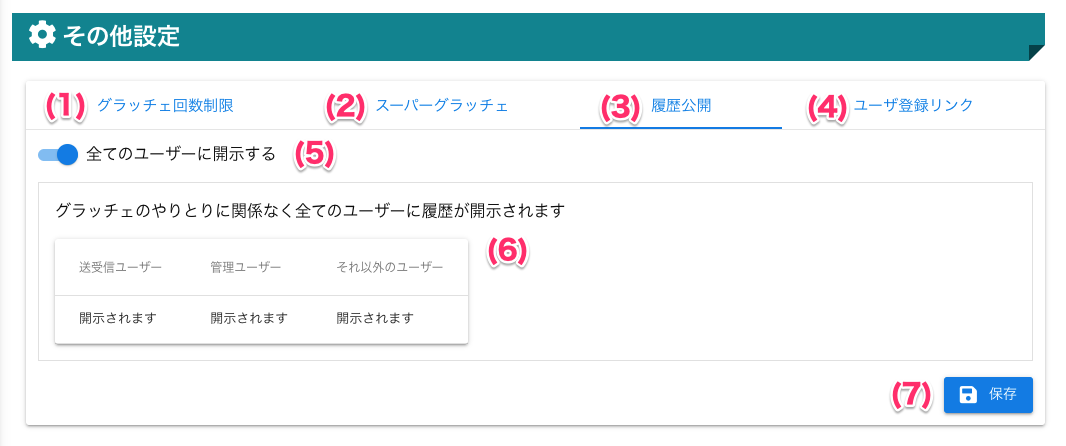
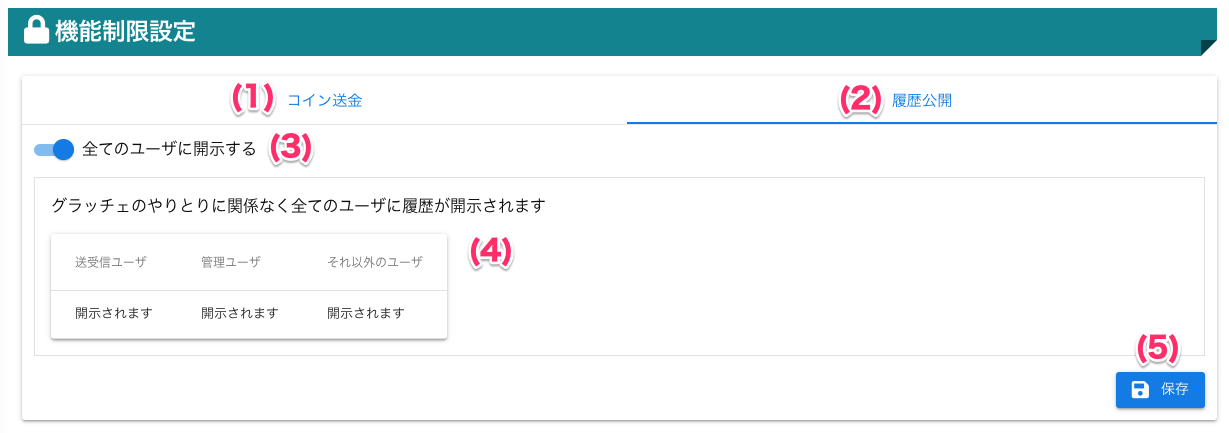
8月末リリース内容の反映

diff --git a/docs/管理者機能/ユーザ/user04.md b/docs/管理者機能/ユーザ/user04.md
@@ -8,23 +8,30 @@
 ### 画面項目
 |   #   | 項目名                | 必須  | 説明                                                                                                                                         |
 | :---: | :-------------------- | :---: | :------------------------------------------------------------------------------------------------------------------------------------------- |
-|   1   | CSVファイル入力例     |   -   | CSVファイルによるデータインポートの説明です。クリックすると、説明を表示します。<br>サンプルとなるCSVファイルをダウンロードすることができます |
-|   2   | CSVファイル選択ボタン |   -   | ボタンを押すとインポートするCSVファイルを選択する画面が開きます                                                                              |
-|   3   | アップロードボタン    |   -   | ボタンを押すと選択したCSVファイルのインポートを行います。                                                                                    |
-|   4   | インポート結果表示欄  |   -   | CSVファイルインポート処理実行後に結果を表示します。                                                                                          |
+|   1   | ユーザ一覧CSVダウンロードボタン     |   -   | クリックすると、現在登録されているユーザをCSV形式でダウンロードすることができます。<br>ダウンロードしたファイルを直接変更することでそのままファイルを使用いただけます。 |
+|   2   | サンプルCSVダウンロードボタン |   -   | ボタンを押すとCSVファイルのサンプルをダウンロードすることができます。
+|   3   | CSVファイル入力例     |   -   | CSVファイルによるデータインポートの説明です。クリックすると、説明を表示します。|                                                                            |
+|   4   | CSVファイル選択ボタン |   -   | ボタンを押すとインポートするCSVファイルを選択する画面が開きます。
+|   5   | アップロードボタン    |   -   | ボタンを押すと選択したCSVファイルのインポートを行います。                                                                                    |
+|   6   | 閉じるボタン  |   -   | クリックするとユーザインポート画面を閉じます。                                                                                          |
 
 ## CSVファイルインポート結果表示画面
 <a href="../../../images/user/4-2.png" data-lightbox="スクリーンショット" data-title="スクリーンショット">
     <img src="../../../images/user/4-2.png" style="border: solid 1px #ccc; width: 500px;" />
 </a>
 
+- 結果ダウンロードCSVファイルの中身
+<a href="../../../images/user/4-5.png" data-lightbox="スクリーンショット" data-title="スクリーンショット">
+    <img src="../../../images/user/4-5.png" style="border: solid 1px #ccc; width: 500px;" />
+</a>
+
 
 ### 画面項目
 |   #   | 項目名                   | 必須  | 説明                                                                                                                                                                   |
 | :---: | :----------------------- | :---: | :--------------------------------------------------------------------------------------------------------------------------------------------------------------------- |
-|   1   | 件数                     |   -   | CSVファイルによるデータインポートの説明です。クリックすると、説明を表示します。<br>サンプルとなるCSVファイルをダウンロードすることができます                           |
-|   2   | インポートしたユーザ情報 |   -   | ボタンを押すとインポートするCSVファイルを選択する画面が開きます                                                                                                        |
-|   3   | 結果                     |   -   | ボタンを押すと選択したCSVファイルのインポートを行います。<br>取り込めなかったデータは、<span style="font-weight:bold;font-size:16px;color:red;">×</span>を表示します。 |
+|   1   | 結果をダウンロードするボタン                     |   -   | CSVインポートの結果を記載したCSVファイルをダウンロードすることができます。<br>ダウンロード後、成功ダイアログ画面が自動的に閉じます                           |
+|   2   | 閉じるボタン |   -   | 成功ダイアログ画面を閉じることができます。                                                                                                        |
+|   3   | インポート結果                     |   -   | `アップロード成功:追加`の場合は新規登録、 `アップロード成功:更新`になっている場合はユーザ情報を更新しています。 |
 
 
 
@@ -59,21 +66,24 @@ VSC管理者,vsckanri@graziecoin.jp,0000000000,1111111111,1
 ### インポートエラー時の表示
 !!! warning
     以下の登録結果が表示された場合、CSVデータの見直しが必要です<br>
-    [よくあるインポートエラーの例](#_6)を参考に修正をお願いいたします
+    [よくあるインポートエラーの例](#_6)を参考に修正をお願いいたします<br>
+    **また、ダウンロードした結果ファイルをそのまま編集し、アップロードいただけます。**
 
 <a href="../../../images/user/4-2.png" data-lightbox="スクリーンショット" data-title="スクリーンショット">
     <img src="../../../images/user/4-3.png" style="border: solid 1px #ccc; width: 500px;" />
 </a>
 
-### メール通知に失敗した場合
-
-!!! warning
-    以下の登録結果が表示された場合、対象ユーザのメールアドレスへログイン用のパスワードが**通知できていません**<br>
-    お手数ですが、対象のユーザへ[パスワード再設定方法](../../howto/howto04.md)をご案内ください
-
+- エラー結果ダウンロードCSVファイルの中身
 <a href="../../../images/user/4-4.png" data-lightbox="スクリーンショット" data-title="スクリーンショット">
     <img src="../../../images/user/4-4.png" style="border: solid 1px #ccc; width: 500px;" />
 </a>
+
+### 追加したユーザに対して、アカウント作成メール通知がこない場合
+
+!!! warning
+    対象ユーザのメールアドレスが存在しない場合等でログイン用のパスワードが**通知できないことがございます**<br>
+    お手数ですが、対象のユーザへ[パスワード再設定方法](../../howto/howto04.md)をご案内ください
+
 
 ### よくあるインポートエラーの例
 
@@ -90,35 +100,16 @@ VSC管理者,vsckanri@graziecoin.jp,0000000000,1111111111,1
     - 上記に気をつけてCSVファイルを作成したがエラーになってしまう
         - お手数ですが作成したCSVファイルを添付して、バリューソフトウエア問合せ窓口（`app_dev@valunet.co.jp`）へお問い合わせください
 
-#### 事業所ID、部署IDが間違っている
-
-事業所コードの桁数が10桁ではない、または存在しない事業所コードを指定している場合などはエラーが発生します。
-
-<a href="../../../images/user/4-error-1.png" data-lightbox="スクリーンショット" data-title="スクリーンショット">
-    <img src="../../../images/user/4-error-1.png" style="border: solid 1px #ccc; width: 300px;" />
-</a>
-<a href="../../../images/user/4-error-1.png" data-lightbox="スクリーンショット" data-title="スクリーンショット">
-    <img src="../../../images/user/4-error-1.png" style="border: solid 1px #ccc; width: 300px;" />
+<a href="../../../images/user/4-6.png" data-lightbox="スクリーンショット" data-title="スクリーンショット">
+    <img src="../../../images/user/4-6.png" style="border: solid 1px #ccc; width: 600px;" />
 </a>
 
 
-
-#### 権限の数値が0または1ではない
-
-ユーザ権限の数値が0(一般)、1(管理者)以外の場合は、エラーが発生します。
-
-<a href="../../../images/user/4-error-3.png" data-lightbox="スクリーンショット" data-title="スクリーンショット">
-    <img src="../../../images/user/4-error-3.png" style="border: solid 1px #ccc; width: 300px;" />
-</a>
-
-
-#### エラーが解消しない場合
-- すでに登録されているメールアドレスを使用している場合があります
-    - [ユーザ一覧](user01.md)で登録されていないかご確認ください
-- ユーザの作成数がサービス利用申込時に設定されたご利用者数を超えている場合があります
-    - バリューソフトウエアまでお問合せください
-
-
+| # | エラー原因 |
+| -------- | -------------- |
+| 1  | 事業所コードの桁数が10桁ではない、または存在しない事業所コードを指定している場合などはエラーが発生します。 |
+| 2  | 部署コードの桁数が10桁ではない、または存在しない部署コードを指定している場合などはエラーが発生します。 |
+| 3  | ユーザ権限の数値が0(一般)、1(管理者)以外の場合は、エラーが発生します。 |
 
 #### よくあるお問合せ
 !!! warning
@@ -129,4 +120,4 @@ VSC管理者,vsckanri@graziecoin.jp,0000000000,1111111111,1
 ## 使い方
 ### CSVインポートでユーザを登録する
 
-<iframe src="https://scribehow.com/embed/CSV__wuuihIlBRUGkNUT21doutg" width="640" height="640" allowfullscreen frameborder="0"></iframe>
+<iframe src="https://scribehow.com/embed/CSV__qWBjRs_mSheVowOz3WLEXg" width="640" height="640" allowfullscreen frameborder="0"></iframe>

diff --git a/docs/管理者機能/その他設定/other03.md b/docs/管理者機能/その他設定/other03.md
@@ -11,23 +11,18 @@
 ## 画面項目
 |   #   | 項目名                             | 必須  | 説明                                                                                                                               |
 | :---: | :--------------------------------- | :---: | :--------------------------------------------------------------------------------------------------------------------------------- |
-|   1   | グラッチェ回数制限タブ             |   -   | グラッチェ回数制限を設定するタブです                                                                                               |
-|   2   | スーパーグラッチェタブ             |   -   | スーパーグラッチェを設定するタブです                                                                                               |
-|   3   | 履歴公開タブ   |   -   | 履歴公開を設定するタブです                       |
-|   4   | ユーザ登録リンクタブ               |   -   | ユーザ登録リンクを設定するタブです                                                                                                 |
-|   5   | ユーザ登録フォーム有効スイッチ     |   -   | ユーザ登録フォームからのユーザ登録の有効・無効を切り替えるスイッチです                                                             |
-|   6   | ユーザ登録URL                      |   -   | ユーザ登録フォームのURLを表示します                                                                                                |
-|   7   | メールアドレスドメイン制限スイッチ |   -   | ユーザ登録フォームから登録するユーザのメールアドレスを、マスター管理者と同じドメインとする制限の有効・無効を切り替えるスイッチです |
-|   8   | URLをコピーボタン                  |   -   | ボタンを押すとユーザ登録URLをクリップボードにコピーします                                                                          |
-|   9   | URLを再発行するボタン              |   -   | ボタンを押すとユーザ登録URLをランダムに生成しなおします                                                                            |
+|   1   | ユーザ登録フォーム有効スイッチ     |   -   | ユーザ登録フォームからのユーザ登録の有効・無効を切り替えるスイッチです                                                             |
+|   2   | ユーザ登録URL                      |   -   | ユーザ登録フォームのURLを表示します                                                                                                |
+|   3   | メールアドレスドメイン制限スイッチ |   -   | ユーザ登録フォームから登録するユーザのメールアドレスを、マスター管理者と同じドメインとする制限の有効・無効を切り替えるスイッチです |
+|   4   | URLをコピーボタン                  |   -   | ボタンを押すとユーザ登録URLをクリップボードにコピーします                                                                          |
+|   5   | URLを再発行するボタン              |   -   | ボタンを押すとユーザ登録URLをランダムに生成しなおします                                                                            |
 
 ## 使い方
 ### ユーザ登録フォームを有効にする
-<iframe src="https://scribehow.com/embed/__Aspc7nCESL6mjfuKrfBEcg" width="640" height="640" allowfullscreen frameborder="0"></iframe>
+<iframe src="https://scribehow.com/embed/__EgXabTbYQrCdlAdEIs9Qag" width="640" height="640" allowfullscreen frameborder="0"></iframe>
 
 ### ユーザ登録フォームを無効にする
-
-<iframe src="https://scribehow.com/embed/__q4MKbL0HTLO-2mkm8P0Aeg" width="640" height="640" allowfullscreen frameborder="0"></iframe>
+<iframe src="https://scribehow.com/embed/__5DAzBHyWQmKamDkK0hncFQ" width="640" height="640" allowfullscreen frameborder="0"></iframe>
 
 !!! info
     ユーザ登録フォームが無効な場合、ユーザを登録しようとすると以下のエラーが表示されます。

diff --git a/docs/管理者機能/productmaintenance.md b/docs/管理者機能/productmaintenance.md
@@ -18,7 +18,7 @@
 |   #   | 項目名         | 必須  | 説明                                                                            |
 | :---: | :------------- | :---: | :------------------------------------------------------------------------------ |
 |   1   | 物品追加ボタン |   -   | 現在表示中の事業所の名称です。<br/>事業所を無効にしている場合は表示されません。 |
-|   2   | 商品情報       |   -   | 商品の情報（名称・商品画像・価格）を表示します                                  |
+|   2   | 商品情報       |   -   | 商品の情報（名称・商品画像・価格・在庫数・申請数）を表示します。在庫数が0の場合は赤色で表示されます。                                  |
 |   3   | 商品削除ボタン |   -   | 商品を削除します。                                                              |
 |   4   | 商品編集ボタン |   -   | 商品情報を変更する画面を開きます。                                              |
 
@@ -28,9 +28,10 @@
 |   5   | 商品画像選択ボタン |   -   | 商品がわかる画像を指定します。                                  |
 |   6   | 商品名             |   ○   | 商品名を入力します。                                            |
 |   7   | 金額               |   ○   | 商品のコイン価格を入力します。                                  |
-|   8   | 表示優先度         |   ○   | 一般ユーザが商品交換する際に、表示する優先度を3段階で決めます。 |
-|   9   | 閉じるボタン       |   -   | 登録を中止して、画面を閉じます。                                |
-|  10   | 保存ボタン         |   -   | 商品情報を登録します。                                          |
+|   8   | 在庫数         |   ○   | 有効にすると在庫数を設定することができます。 |
+|   9   | 表示優先度         |   ○   | 一般ユーザが商品交換する際に、表示する優先度を3段階で決めます。 |
+|   10   | 閉じるボタン       |   -   | 登録を中止して、画面を閉じます。                                |
+|  11   | 保存ボタン         |   -   | 商品情報を登録します。                                          |
 
 
 
@@ -38,19 +39,19 @@
 
 ### 商品登録
 
-<iframe src="https://scribehow.com/embed/__xVHqTH6iTsSim-gSHY68LA" width="640" height="640" allowfullscreen frameborder="0"></iframe>
+<iframe src="https://scribehow.com/embed/__3_Lge7kMSaeXHWo9__OhZQ" width="640" height="640" allowfullscreen frameborder="0"></iframe>
 
 
 ### 商品編集
 
-<iframe src="https://scribehow.com/embed/__RgngFh7yQeGRJZJKTTO_vg" width="640" height="640" allowfullscreen frameborder="0"></iframe>
+<iframe src="https://scribehow.com/embed/__zWjPXENsRrurlmLcn4jvfQ" width="640" height="640" allowfullscreen frameborder="0"></iframe>
 
 !!! info
     価格の変更や商品在庫がなくなった場合、**商品を無効化する**ことでユーザに商品が表示されなくなります。
 
 
 ### 商品削除
-<iframe src="https://scribehow.com/embed/Workflow__alsQmC-JQX2TAzbjy75fQg" width="640" height="640" allowfullscreen frameborder="0"></iframe>
+<iframe src="https://scribehow.com/embed/__JwDbAVyxQHiiiHFRozGaUw" width="640" height="640" allowfullscreen frameborder="0"></iframe>
 
 !!! warning
     商品を削除すると**元に戻すことができません**。<br>

diff --git a/docs/管理者機能/その他設定/other04.md b/docs/管理者機能/その他設定/other04.md
@@ -19,18 +19,15 @@
 ## 画面項目
 |   #   | 項目名                             | 必須  | 説明                                                                                                                               |
 | :---: | :--------------------------------- | :---: | :--------------------------------------------------------------------------------------------------------------------------------- |
-|   1   | グラッチェ回数制限タブ             |   -   | グラッチェ回数制限を設定するタブです                                                                                               |
-|   2   | スーパーグラッチェタブ             |   -   | スーパーグラッチェを設定するタブです|
-|   3   | 履歴公開タブ   |   -   | 履歴公開を設定するタブです                       |
-|   4   | ユーザ登録リンクタブ               |   -   | ユーザ登録リンクを設定するタブです                                                                                                 |
-|   5   | 履歴公開有効スイッチ     |   -   | ユーザが見ることができる履歴の公開範囲の有効・無効を切り替えるスイッチです                                                             |
-|   6   | 説明表                      |   -   | 現在選択している、履歴公開設定の説明です。表を見ることで公開範囲を確認することができます|
-|   7   | 保存ボタン |   -   | ボタンを押すと設定を保存します |
+|   1   | コイン送金制限タブ             |   -   | グラッチェ回数制限を設定するタブです                                                                                               |
+|   2   | 履歴公開タブ   |   -   | 履歴公開を設定するタブです                       |
+|   3   | 履歴公開有効スイッチ     |   -   | ユーザが見ることができる履歴の公開範囲の有効・無効を切り替えるスイッチです                                                             |
+|   4   | 説明表                      |   -   | 現在選択している、履歴公開設定の説明です。表を見ることで公開範囲を確認することができます|
+|   5   | 保存ボタン |   -   | ボタンを押すと設定を保存します |
 
 ## 使い方
 ### 履歴公開範囲を全てのユーザーに開示する
-<iframe src="https://scribehow.com/embed/__nemzL8QET8OCXKe5ful1uA" width="640" height="640" allowfullscreen frameborder="0"></iframe>
+<iframe src="https://scribehow.com/embed/__lYNGDL8RTWuRcAK62UPViQ" width="640" height="640" allowfullscreen frameborder="0"></iframe>
 
 ### 履歴公開範囲を送受信ユーザーのみに開示する
-
-<iframe src="https://scribehow.com/embed/__tGUoZggLSP6WPExvVmvS7A" width="640" height="640" allowfullscreen frameborder="0"></iframe>
+<iframe src="https://scribehow.com/embed/__h9JcjBGtQhW5dehP3QrdLQ" width="640" height="640" allowfullscreen frameborder="0"></iframe>

diff --git a/docs/管理者機能/その他設定/other02.md b/docs/管理者機能/その他設定/other02.md
@@ -61,13 +61,11 @@
 | :---: | :------------------------------------- | :---: | :----------------------------------------------------------------------------- |
 |   1   | グラッチェ回数制限タブ                 |   -   | グラッチェ回数制限を設定するタブです                                           |
 |   2   | スーパーグラッチェタブ                 |   -   | スーパーグラッチェを設定するタブです                                           |
-|   3   | 履歴公開タブ   |   -   | 履歴公開を設定するタブです                       |
-|   4   | ユーザ登録リンクタブ                   |   -   | ユーザ登録リンクを設定するタブです                                             |
-|   5   | スーパーグラッチェ有効スイッチ         |   -   | スーパーグラッチェ設定の有効・無効を切り替えるスイッチです                     |
-|   6   | スーパーグラッチェコイン数             |   -   | スーパーグラッチェで付与するコイン数を設定します                               |
-|   7   | スーパーグラッチェ予算上限有効スイッチ |   -   | スーパーグラッチェによるコイン配布上限設定の有効・無効を切り替えるスイッチです |
-|   8   | 1ヶ月のスーパーグラッチェ予算          |   -   | スーパーグラッチェで配布するコインの1ヶ月の上限を設定します                    |
-|   9   | 保存ボタン                             |   -   | ボタンを押すと設定を保存します                                                 |
+|   3   | スーパーグラッチェ有効スイッチ         |   -   | スーパーグラッチェ設定の有効・無効を切り替えるスイッチです                     |
+|   4   | スーパーグラッチェコイン数             |   -   | スーパーグラッチェで付与するコイン数を設定します                               |
+|   5   | スーパーグラッチェ予算上限有効スイッチ |   -   | スーパーグラッチェによるコイン配布上限設定の有効・無効を切り替えるスイッチです |
+|   6   | 1ヶ月のスーパーグラッチェ予算          |   -   | スーパーグラッチェで配布するコインの1ヶ月の上限を設定します                    |
+|   7   | 保存ボタン                             |   -   | ボタンを押すと設定を保存します                                                 |
 
 ## 使い方
 ### スーパーグラッチェを設定する

diff --git a/docs/一般機能/GrazieCoin/coin04.md b/docs/一般機能/GrazieCoin/coin04.md
@@ -1,0 +1,30 @@
+# 　:new:商品交換状況画面
+
+## 画面
+
+<a href="../../../images/coin/4-1.png" data-lightbox="スクリーンショット" data-title="スクリーンショット">
+    <img src="../../../images/coin/4-1.png" style="border: solid 1px #ccc; width: 800px;" />
+</a>
+
+## 項目
+
+|   #   | 項目名         | 必須  | 説明                                                                                                                                                                                                               |
+| :---: | :------------- | :---: | :----------------------------------------------------------------------------------------------------------------------------------------------------------------------------------------------------------------- |
+|   1   | 商品交換状況画面   |   -   | 商品交換画面で商品交換状況ボタンを押すと表示します                                                                                                                                                               |
+|   2   | 申請日時     |   -   | 商品を交換した日時です                                                                                                                                                                             |
+|   3   | 交換商品     |   -   | 交換した商品の名前です                                                                                                                           |
+|   4   | 取引金額           |   -   | 交換時に消費した金額です                                                                                                                                                                         |
+|   5   | ステータス           |   -   | 「未交換」のステータス                           |
+|   6   | 交換取消ボタン           |   -   | 商品を交換を取り消すことができます<br>※**2024年9月以降に交換申請した商品のみが対象です** |
+|   7   | 閉じるボタン   |   -   | ボタンを押すと画面を閉じます                                                                                                                                                                                       |
+
+## 使い方
+
+### 交換申請を取り消す
+
+<iframe src="https://scribehow.com/embed/__3L_BgmRwQoq2QMzLZEwWQQ" width="640" height="640" allowfullscreen frameborder="0"></iframe>
+
+
+
+
+

diff --git a/docs/管理者機能/その他設定/other05.md b/docs/管理者機能/その他設定/other05.md
@@ -1,0 +1,37 @@
+# コイン送金制限設定
+
+!!! info
+    - 一般画面のコイン送金機能の制限を設定をすることができます
+    - 「**全てのユーザが送金可能**」
+        - 全てのユーザがコイン送金できます
+    - 「**管理者のみ送金可能**」
+        - 管理者のみコイン送金できます
+    - 「**全てのユーザが送金不可**」
+        - 全てのユーザがコイン送金できません
+
+## 画面
+<a href="../../../images/other/5.png" data-lightbox="スクリーンショット" data-title="スクリーンショット">
+    <img src="../../../images/other/5.png" style="border: solid 1px #ccc; width: 800px;" />
+</a>
+
+（クリックすると拡大します）
+
+### 制限中の画面
+- 制限されたユーザは「コインを送る」ボタンが表示されません
+<a href="../../../images/other/6.png" data-lightbox="スクリーンショット" data-title="スクリーンショット">
+    <img src="../../../images/other/6.png" style="border: solid 1px #ccc; width: 800px;" />
+</a>
+
+## 画面項目
+|   #   | 項目名                             | 必須  | 説明                                                                                                                               |
+| :---: | :--------------------------------- | :---: | :--------------------------------------------------------------------------------------------------------------------------------- |
+|   1   | コイン送金制限タブ             |   -   | グラッチェ回数制限を設定するタブです                                                                                               |
+|   2   | 履歴公開タブ   |   -   | 履歴公開を設定するタブです                       |
+|   3  | 送金制限設定スイッチ               |   -   | コイン送金機能の制限を切り替えるスイッチです                                                                                                 |
+|   4   | 説明表                      |   -   | 現在選択している、コイン送金制限設定の説明です。表を見ることで制限範囲を確認することができます|
+|   5   | 保存ボタン |   -   | ボタンを押すと設定を保存します |
+
+## 使い方
+### コイン送金機能を制限する
+<iframe src="https://scribehow.com/embed/__BJmWkja5T_iTnWOBR-O_QA" width="640" height="640" allowfullscreen frameborder="0"></iframe>
+

diff --git a/docs/一般機能/GrazieCoin/coin03.md b/docs/一般機能/GrazieCoin/coin03.md
@@ -17,12 +17,14 @@
 |   5   | 商品カード     |   -   | 交換できる商品情報をカード形式で表示します。カードの上部(青い部分)は商品名を表示します。                                                                                                                           |
 |   6   | 商品画像       |   -   | 商品画像です                                                                                                                                                                                                       |
 |   7   | 価格           |   -   | 商品を交換するために必要なコインの枚数です                                                                                                                                                                         |
-|   7   | 時価           |   -   | 価格を現在のレート値で換算した時価です。<br>**レートオプション機能が有効な場合のみ表示します**。<br>レートオプション有効時は、**時価が商品を交換するために必要なコイン枚数**になります。                           |
-|   8   | 閉じるボタン   |   -   | ボタンを押すと画面を閉じます                                                                                                                                                                                       |
+|   8   | 時価           |   -   | 価格を現在のレート値で換算した時価です。<br>**レートオプション機能が有効な場合のみ表示します**。<br>レートオプション有効時は、**時価が商品を交換するために必要なコイン枚数**になります。                           |
+|   9   | 閉じるボタン   |   -   | ボタンを押すと画面を閉じます                                                                                                                                                                                       |
+|   10   | 商品交換状況ボタン     |   -   | 商品交換状況画面が表示されます  
 
 ## 使い方
 
 - [商品を交換する](../../howto/howto02.md)
+- [交換申請を取り消す](./coin04.md)
 
 
 

diff --git a/docs/releasenote/index.md b/docs/releasenote/index.md
@@ -1,7 +1,22 @@
 # リリースノート
 
+## :new: 2024年9月アップデート内容
 
-## :new: 2024年7月アップデート内容
+- ***新機能***
+    - **商品に在庫数を設定できるようになりました！([Web版](../管理者機能/productmaintenance.md)/[スマホアプリ版](../app/index.md#_10))**
+        - 在庫数が0になると「売り切れ」になり、ユーザは商品の交換ができなくなります
+    - **商品の交換申請を取り消しできるようになりました！([Web版](../一般機能/GrazieCoin/coin04.md)/[スマホアプリ版](../app/index.md#_11))**
+        - 取り消しを行うと、交換時に消費したコインが返金されます
+        - **※2024年9月以降に交換申請した商品のみが対象です**
+    - **コイン送金機能の制限ができるようになりました！([Web版](../管理者機能/その他設定/other05.md)/[スマホアプリ版](../app/index.md#coin))**
+        - 制限されたユーザは一般画面のコイン送金ができなくなります(管理者画面からのコイン送金は除く)
+    - **CSVアップロードが更新にも対応するようになりました！([Web](../管理者機能/ユーザ/user04.md))**
+        - 今までは登録のみでしたが、ついに更新にも対応しました
+        - また、現在登録しているユーザの一覧をCSVでダウンロードできるため、更新も簡単です！
+    - **履歴からグラッチェできるようになりました！([スマホアプリ版](../app/index.md#history))**
+        - 履歴に表示されているユーザ名をタップするだけで、グラッチェ入力画面に遷移します
+
+## 2024年7月アップデート内容
 
 - ***変更点***
     - **スマホアプリ版のみ**

diff --git a/docs/管理者機能/その他設定/other01.md b/docs/管理者機能/その他設定/other01.md
@@ -13,11 +13,9 @@
 | :---: | :--------------------- | :---: | :------------------------------------------------------- |
 |   1   | グラッチェ回数制限タブ |   -   | グラッチェ回数制限を設定するタブです                     |
 |   2   | スーパーグラッチェタブ |   -   | スーパーグラッチェを設定するタブです                     |
-|   3   | 履歴公開タブ   |   -   | 履歴公開を設定するタブです                       |
-|   4   | ユーザ登録リンクタブ   |   -   | ユーザ登録リンクを設定するタブです                       |
-|   5   | 回数制限スイッチ       |   -   | グラッチェの回数制限を有効・無効を切り替えるスイッチです |
-|   6   | グラッチェ上限回数     |   -   | ユーザが1日にできるグラッチェの回数上限を設定します      |
-|   7   | 保存ボタン             |   -   | ボタンを押すと設定を保存します                           |
+|   3   | 回数制限スイッチ       |   -   | グラッチェの回数制限を有効・無効を切り替えるスイッチです |
+|   4   | グラッチェ上限回数     |   -   | ユーザが1日にできるグラッチェの回数上限を設定します      |
+|   5   | 保存ボタン             |   -   | ボタンを押すと設定を保存します                           |
 
 ## 使い方
 ### 回数制限を設定する

diff --git a/docs/管理者機能/index.md b/docs/管理者機能/index.md
@@ -111,11 +111,17 @@
 - [グラッチェ数](利用状況/analysis02.md)
 
 
-### :material-cog: その他設定 
+### :material-thumb-up: グラッチェ設定 
 - [回数制限](その他設定/other01.md)
 - [スーパーグラッチェ](その他設定/other02.md)
-- [ユーザ登録リンク](その他設定/other03.md)
+
+### :material-lock: 機能制限設定
+- :new:[コイン送金制限設定](その他設定/other05.md)
 - [履歴公開設定](その他設定/other04.md)
+
+
+### :material-cog: その他設定 
+- [ユーザ登録リンク](その他設定/other03.md)
 
 ## 機能説明(オプション)
 - :fontawesome-solid-money-bill: [レート](../管理者機能/オプション機能/option01.md#_7)
